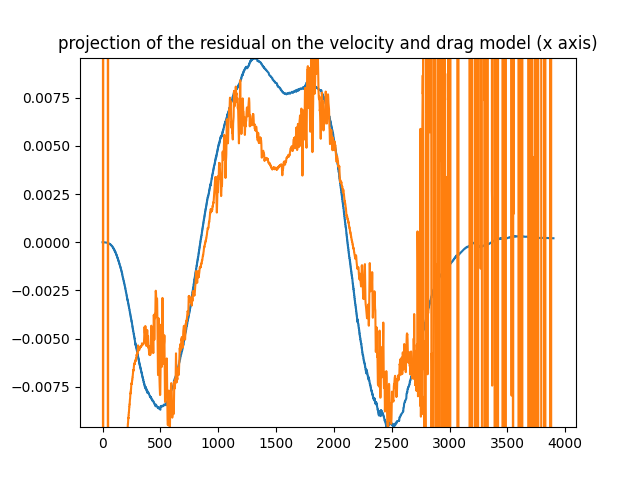
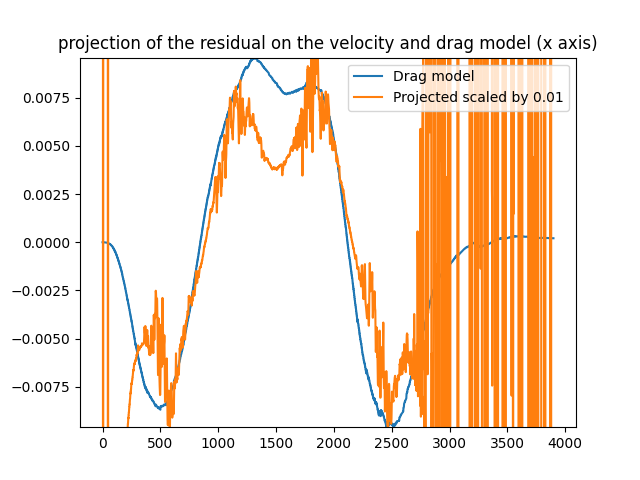
added legend to plots

Changed region(s): [[0.5625, 0.125, 0.875, 0.25]]

diff --git a/on_fly_performace_data/vel2res.py b/on_fly_performace_data/vel2res.py
@@ -82,10 +82,12 @@ plt.plot(vector_r[:,0], label="Drag model")
 plt.plot(projections[:,0]*.01, label=f"Projected scaled by {.01}")
 plt.ylim(min(vector_r[:,0]), max(vector_r[:,0]))
 plt.title("projection of the residual on the velocity and drag model (x axis)")
+plt.legend()
 plt.show()
 
 plt.plot(vector_r[:,1], label="Drag model")
 plt.plot(projections[:,1]*.01, label=f"Projected scaled by {.01}")
 plt.ylim(min(vector_r[:,1]), max(vector_r[:,1]))
 plt.title("projection of the residual on the velocity and drag model (y axis)")
+plt.legend()
 plt.show()
